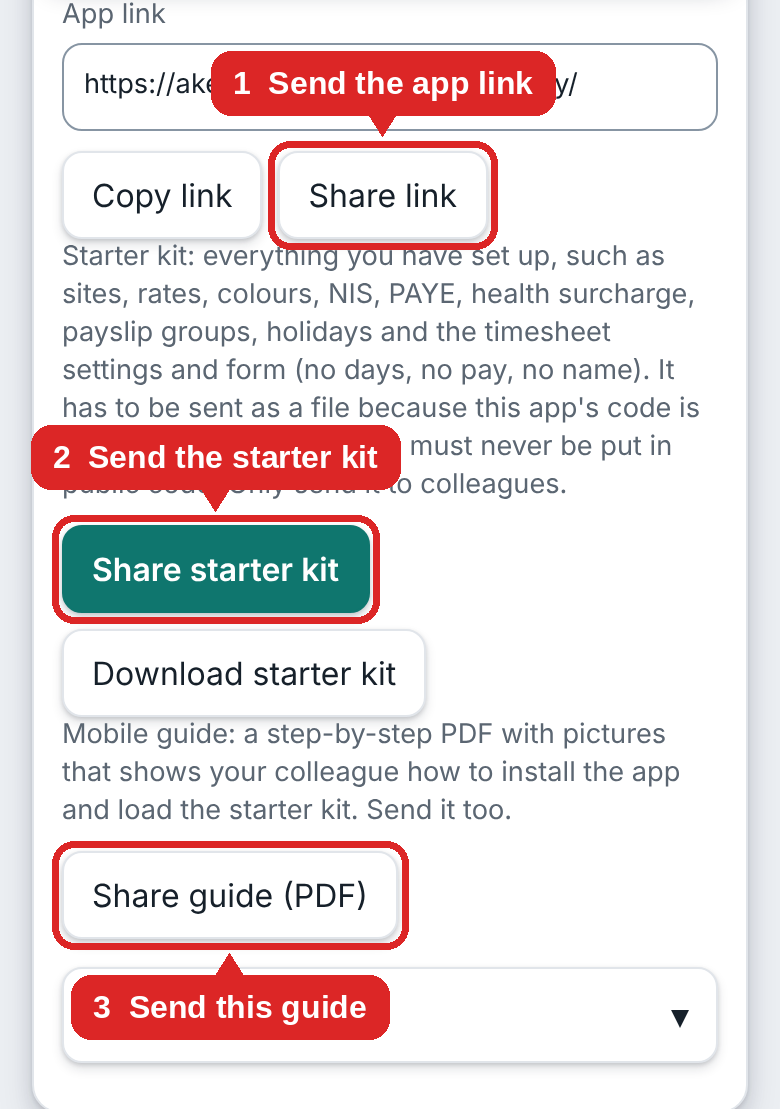
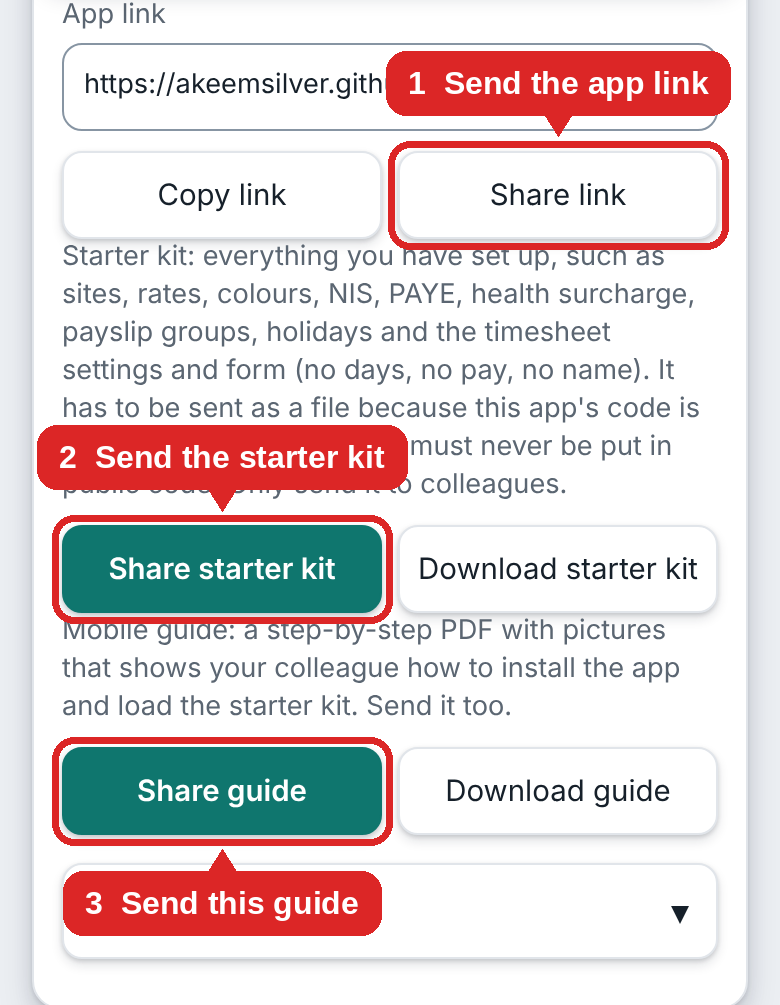
Send to payroll: Open email only opens; Share this app: equal-width button pairs and Download guide (#40)
* Holiday / turnaround days read HOL/TAR in the list and on Home

* Timesheet: tick the sites and roles that go on the timesheet (and other jobs), edit the Client column text, press Save

* Menus pull down from their handle and title bar only; time picker uses AM/PM, hour and minute wheels (always saved as 24-hour)

* Payroll email says Good day; timesheet jobs show roles under each site, a read-out sentence, and a client-medic-everywhere option

Claude-Session: https://claude.ai/code/session_015B217MJCLoYGM2HCZFLF5v

* Time picker: smaller, softer time readout

Claude-Session: https://claude.ai/code/session_015B217MJCLoYGM2HCZFLF5v

* Share menu: starter kit tries .txt first (Android refuses .json); Send to payroll builds the file first, then opens the share menu with the email text

Claude-Session: https://claude.ai/code/session_015B217MJCLoYGM2HCZFLF5v

* Per-site 'Job requires lunch check' Yes/No (settings and Add site); No hides lunch options and pays the full time

Claude-Session: https://claude.ai/code/session_015B217MJCLoYGM2HCZFLF5v

* Colour picker: smaller round swatches in three rows, 12 more colours (existing sites keep theirs)

Claude-Session: https://claude.ai/code/session_015B217MJCLoYGM2HCZFLF5v

* Send to payroll: Download and share in one tap (saves to Downloads, stays on screen, opens the share menu); button becomes Share if the phone needs a second tap

Claude-Session: https://claude.ai/code/session_015B217MJCLoYGM2HCZFLF5v
[…]

diff --git a/src/components/ExportSheet.tsx b/src/components/ExportSheet.tsx
@@ -107,7 +107,6 @@ export function ExportSheet({ month }: { month: string }) {
     setMessage(null);
     setPayrollFile(null);
     setPayrollError(null);
-    setPayrollTry(0);
     setSavedToFiles(false);
     setSavedName(null);
     setPayrollOpen(true);
@@ -120,34 +119,6 @@ export function ExportSheet({ month }: { month: string }) {
     }
   };
   const [payrollError, setPayrollError] = useState<string | null>(null);
-  // Android Chrome sometimes refuses a file type ("Permission denied"). Each tap tries the next way of labelling the same file.
-  const SHARE_TYPES = [XLSX_MIME, "application/octet-stream", "application/zip"];
-  const [payrollTry, setPayrollTry] = useState(0);
-  // Secondary: share the file with any app (WhatsApp, ...).
-  const shareToPayroll = async () => {
-    if (!payrollFile) return;
-    const { fileName, bytes } = payrollFile;
-    setPayrollError(null);
-    const type = SHARE_TYPES[payrollTry % SHARE_TYPES.length]!;
-    const file = new File([bytes as BlobPart], fileName, { type });
-    const nav = navigator as Navigator & { canShare?: (d: ShareData) => boolean };
-    if (nav.share && (!nav.canShare || nav.canShare({ files: [file] }))) {
-      try {
-        // Only the file and its name: adding the email text made Android refuse the share.
-        await nav.share({ files: [file], title: fileName });
-        setPayrollOpen(false); setPayrollTry(0);
-        setMessage({ text: "Time sheet shared.", ok: true });
-      } catch (e) {
-        // Closing the share menu is fine. Any other refusal is shown, and the next tap tries another file type.
-        if ((e as DOMException)?.name !== "AbortError") {
-          setPayrollError((e as Error)?.message || (e as DOMException)?.name || "Error");
-          setPayrollTry((t) => t + 1);
-        }
-      }
-      return;
-    }
-    setPayrollError("this phone cannot share files");
-  };
   // iPhone: a downloaded file opens in a viewer that hides the mail app, so there are two steps: the file goes to the share menu
   // (Save to Files), then the chosen email app opens with the address, subject and message filled in, and the file is attached from Files.
   const [savedToFiles, setSavedToFiles] = useState(false);
@@ -181,23 +152,12 @@ export function ExportSheet({ month }: { month: string }) {
     download(name, payrollFile.bytes, XLSX_MIME);
     setSavedName(name);
   };
-  // Step 2: open the email app with the address, subject and message filled in; the file is attached from Files / Downloads.
-  const doOpenEmail = (app: "mail" | "gmail" | "outlook") => {
-    if (isIos()) { window.location.href = app === "gmail" ? gmailLink(email) : app === "outlook" ? outlookLink(email) : mailtoLink(email); return; }
-    if (!payrollFile) return;
-    let name = savedName;
-    if (!name) { name = withTime(payrollFile.fileName); download(name, payrollFile.bytes, XLSX_MIME); setSavedName(name); }
-    const wait = savedName ? 0 : 700;
-    setPayrollOpen(false); setPayrollTry(0);
-    setMessage({ text: `${name} is in your Downloads. Attach it to the email that opens, then send.`, ok: true });
-    window.setTimeout(() => { window.location.href = mailtoLink(email); }, wait);
-  };
+  // Step 2 only opens the email app with the address, subject and message filled in. It never saves the file: that is step 1, and
+  // a copy may already be on the phone. (A link cannot attach a file, so the file is attached from Downloads / Files.) The box stays
+  // open, so coming back from the email app the file can still be saved.
   const openEmailApp = (app: "mail" | "gmail" | "outlook") => {
-    if (!isIos() && !savedName) {
-      askFirst({ title: "Save the time sheet and open email?", message: "The time sheet is saved to your Downloads, then your email app opens with the address, subject and message filled in. You attach the file.", confirmLabel: "Yes, save and open" }, () => doOpenEmail(app));
-      return;
-    }
-    doOpenEmail(app);
+    if (isIos()) { window.location.href = app === "gmail" ? gmailLink(email) : app === "outlook" ? outlookLink(email) : mailtoLink(email); return; }
+    window.location.href = mailtoLink(email);
   };
   // Other way: the file goes straight into an email app through the share menu, attached; the address is copied for pasting.
   const shareToMail = async () => {
@@ -299,7 +259,7 @@ export function ExportSheet({ month }: { month: string }) {
         )}
       </div>
       {askDialog}
-      {payrollOpen && <PayrollDialog email={email} fileName={timesheetFileName(name, month)} onCancel={() => setPayrollOpen(false)} onShare={() => askFirst({ title: "Share the time sheet?", message: "Your phone's share menu opens with the time sheet, so you can pick an app to send it with.", confirmLabel: "Yes, share" }, () => void shareToPayroll())} ios={isIos()} onSave={() => askFirst({ title: "Save the time sheet?", message: isIos() ? "The share menu opens: tap Save to Files to keep the time sheet." : "The time sheet is saved to your Downloads.", confirmLabel: "Yes, save" }, () => void saveTimesheet())} saved={isIos() ? savedToFiles : savedName !== null} savedName={savedName} onOpenEmail={openEmailApp} onShareMail={() => askFirst({ title: "Share the time sheet to an email app?", message: "The share menu opens with the time sheet attached. The payroll address is copied for you to paste.", confirmLabel: "Yes, share" }, () => void shareToMail())} ready={!!payrollFile} error={payrollError} />}
+      {payrollOpen && <PayrollDialog email={email} fileName={timesheetFileName(name, month)} onCancel={() => setPayrollOpen(false)} ios={isIos()} onSave={() => askFirst({ title: "Save the time sheet?", message: isIos() ? "The share menu opens: tap Save to Files to keep the time sheet." : "The time sheet is saved to your Downloads.", confirmLabel: "Yes, save" }, () => void saveTimesheet())} saved={isIos() ? savedToFiles : savedName !== null} savedName={savedName} onOpenEmail={openEmailApp} onShareMail={() => void shareToMail()} ready={!!payrollFile} error={payrollError} />}
     </BottomSheet>
   );
 }

diff --git a/src/screens/SettingsHub.tsx b/src/screens/SettingsHub.tsx
@@ -38,6 +38,7 @@ export function SettingsHub() {
   const [askDownload, setAskDownload] = useState(false);
   const [askShare, setAskShare] = useState(false);
   const [askGuide, setAskGuide] = useState(false);
+  const [askGuideDownload, setAskGuideDownload] = useState(false);
   // The guide is only downloaded when someone says yes to sharing it (never ahead of time).
   const [guideMessage, setGuideMessage] = useState<string | null>(null);
   const shareGuidePdf = async () => {
@@ -49,8 +50,18 @@ export function SettingsHub() {
     } catch (e) {
       const name = (e as DOMException)?.name;
       if (name === "AbortError") setGuideMessage(null);
-      else if (name === "NotAllowedError") setGuideMessage("The guide is ready. Tap Share guide (PDF) again to send it.");
+      else if (name === "NotAllowedError") setGuideMessage("The guide is ready. Tap Share guide again to send it.");
       else setGuideMessage("The guide could not be loaded. It needs a signal; try again in a moment.");
+    }
+  };
+  // Saved straight to Downloads, after a yes. The guide is fetched only now, never ahead of time.
+  const downloadGuidePdf = async () => {
+    try {
+      setGuideMessage("Getting the guide…");
+      download(withTime(GUIDE_FILE), await loadGuide(), "application/pdf");
+      setGuideMessage("Guide saved to your Downloads.");
+    } catch {
+      setGuideMessage("The guide could not be loaded. It needs a signal; try again in a moment.");
     }
   };
   const [kitMessage, setKitMessage] = useState<string | null>(null);
@@ -126,19 +137,20 @@ export function SettingsHub() {
         <label>App link
           <input readOnly aria-label="App link" value={link} onFocus={(e) => e.currentTarget.select()} />
         </label>
-        <div className="row">
+        <div className="row pair">
           <button onClick={copyLink}>{copied ? "Copied ✓" : "Copy link"}</button>
           <button onClick={() => void shareLink()}>Share link</button>
         </div>
         <p className="muted small">Starter kit: everything you have set up, such as sites, rates, colours, NIS, PAYE, health surcharge, payslip groups, holidays and the timesheet settings and form (no days, no pay, no name). It has to be sent as a file because this app's code is public, and company rates must never be put in public code. Only send it to colleagues.</p>
-        <div className="row">
+        <div className="row pair">
           <button className="primary" disabled={sitesCount === 0} onClick={() => setAskShare(true)}>Share starter kit</button>
           <button disabled={sitesCount === 0} onClick={() => setAskDownload(true)}>Download starter kit</button>
         </div>
         {kitMessage && <p className="notice" role="status">{kitMessage}</p>}
         <p className="muted small">Mobile guide: a step-by-step PDF with pictures that shows your colleague how to install the app and load the starter kit. Send it too.</p>
-        <div className="row">
-          <button onClick={() => setAskGuide(true)}>Share guide (PDF)</button>
+        <div className="row pair">
+          <button className="primary" onClick={() => setAskGuide(true)}>Share guide</button>
+          <button onClick={() => setAskGuideDownload(true)}>Download guide</button>
         </div>
         {guideMessage && <p className="notice" role="status">{guideMessage}</p>}
         {sitesCount === 0 && <p className="muted small">Add your sites first, then the starter kit is ready to share.</p>}
@@ -282,6 +294,15 @@ export function SettingsHub() {
           confirmLabel="Yes, share" cancelLabel="Cancel" safe
           onCancel={() => setAskGuide(false)}
           onConfirm={() => { setAskGuide(false); void shareGuidePdf(); }}
+        />
+      )}
+      {askGuideDownload && (
+        <ConfirmDialog
+          title="Download the guide?"
+          message="The guide (PDF, about 2.7 MB) is saved to your Downloads."
+          confirmLabel="Yes, download" cancelLabel="Cancel" safe
+          onCancel={() => setAskGuideDownload(false)}
+          onConfirm={() => { setAskGuideDownload(false); void downloadGuidePdf(); }}
         />
       )}
       {askDownload && (

diff --git a/src/components/PayrollDialog.tsx b/src/components/PayrollDialog.tsx
@@ -8,8 +8,8 @@ import { AppleMailIcon, GmailIcon, OutlookIcon } from "./MailIcons";
  * and message filled in, then attach the file. iPhone saves through the share menu (Save to Files) and has Mail, Gmail and Outlook
  * buttons; Android saves to Downloads and opens its own chooser (Gmail, Outlook, ...).
  */
-export function PayrollDialog({ email, fileName, onCancel, onShare, ready = true, error = null, ios = false, onSave, saved = false, savedName = null, onOpenEmail, onShareMail }: {
-  email: PayrollEmail; fileName: string; onCancel: () => void; onShare?: () => void; ready?: boolean; error?: string | null;
+export function PayrollDialog({ email, fileName, onCancel, ready = true, error = null, ios = false, onSave, saved = false, savedName = null, onOpenEmail, onShareMail }: {
+  email: PayrollEmail; fileName: string; onCancel: () => void; ready?: boolean; error?: string | null;
   ios?: boolean; onSave?: () => void; saved?: boolean; /** Android: the name saved in Downloads. */ savedName?: string | null;
   onOpenEmail?: (app: "mail" | "gmail" | "outlook") => void; onShareMail?: () => void;
 }) {
@@ -33,7 +33,7 @@ export function PayrollDialog({ email, fileName, onCancel, onShare, ready = true
             <button className={saved ? "" : "primary"} disabled={!ready || (!ios && saved)} onClick={onSave}>
               {!ready ? "Preparing…" : saved ? (ios ? "Saved ✓ Save again" : "Saved ✓") : "Save time sheet"}
             </button>
-            <span className="muted small">{ios ? <>In the menu that opens, tap <strong>Save to Files</strong>. If you pick an email app there instead, the file, subject and message go with it, and the address is copied for you to paste.</> : saved && savedName ? <>Saved in your Downloads as <strong>{savedName}</strong>.</> : "It is saved to your Downloads."}</span>
+            <span className="muted small">{ios ? <>In the menu that opens, tap <strong>Save to Files</strong>. If you pick an email app there instead, the file, subject and message go with it, and the address is copied for you to paste.</> : saved && savedName ? <>Saved in your Downloads as <strong>{savedName}</strong>. To send it with another app, such as WhatsApp, attach it from Downloads.</> : "It is saved to your Downloads. To send it with another app, such as WhatsApp, save it here, then attach it from Downloads."}</span>
           </div>
           <div>
             <strong>2. Open your email app</strong>
@@ -49,9 +49,7 @@ export function PayrollDialog({ email, fileName, onCancel, onShare, ready = true
             <span className="muted small">{ios ? "It opens with the address, subject and message filled in. Tap the paperclip and pick the time sheet from Files, then send." : "Pick Gmail or Outlook. It opens with the address, subject and message filled in. Tap the paperclip and attach the time sheet from Downloads, then send."}</span>
           </div>
         </div>
-        {ios
-          ? <button className="link" onClick={onShareMail} disabled={!ready}>Or share the file straight to an email app (you paste the address)</button>
-          : onShare && <button className="link" onClick={onShare} disabled={!ready}>Or share the file with another app instead</button>}
+        {ios && <button className="link" onClick={onShareMail} disabled={!ready}>Or share the file straight to an email app (you paste the address)</button>}
         <div className="row one">
           <button onClick={onCancel}>Close</button>
         </div>

diff --git a/src/styles.css b/src/styles.css
@@ -1068,3 +1068,8 @@ button.close-site { justify-content: center; text-align: center; color: var(--ac
 .source-choices button strong { font-size: 1.02rem; }
 .source-choices button span { font-size: 0.84rem; font-weight: 400; opacity: 0.9; }
 .source-choices ol { margin: 0; padding-left: 1.2rem; display: grid; gap: 4px; }
+
+/* Share this app: each pair of buttons splits the width equally, so Copy / Share link, Share / Download starter kit and Share / Download guide line up. */
+.share-app .row.pair { display: grid; grid-template-columns: 1fr 1fr; gap: 8px; }
+.share-app .row.pair button { width: 100%; }
+.share-app .row.pair button { font-size: 0.92rem; padding-inline: 8px; }

diff --git a/guide/build_guide.py b/guide/build_guide.py
@@ -175,7 +175,7 @@ s.append(steps([
 s.append(Paragraph("D. See the month and send the time sheet", h2))
 s.append(steps([
  ("<b>Home</b> shows the month so far: gross, net, PAYE, days and paid hours, with each payslip group underneath (days, paid hours and its tax: PAYE, NIS and the health surcharge). This is shown for every month with pay, even with only one group. Every job that goes on the time sheet (the sites ticked for it, and other jobs) is counted on its own <b>Time sheet</b> line: its days, the hours of jobs paid by the hour (such as Client medic), and a small note with the pay counted there. <b>Fixed rate and other jobs add days and pay but no hours</b>, and the note says so. The pay and tax still belong to the group they came from, so PAYE, NIS and the surcharge are worked out from everything in that group. A day is counted once, so the lines add up to the Days and Paid hours at the top. Swipe the calendar left or right to change month. The <b>Month</b> tab shows the same month with the calendar (the month name and arrows stay at the top as you scroll, and changing the month keeps your place; each time you come back to the tab it opens on the current month) and, under its summary, two colour tables like the monthly sheet: <b>Gross and days</b> (for each site the gross, the days, and how many were weekdays and weekend or holiday days) and <b>Hours</b> (the hours worked and the paid hours, with overtime counted). A fixed day rate shows no hours. <b>Year</b> and <b>Charts</b> show the whole year. On the Year tab, <b>More details</b> opens a table for each payslip; while you scroll down inside an opened table its header stays under the title bar (tap it to close the table).", None),
- ("<b>Every button that saves or shares a file first asks you in a pop-up</b> (for example \"Download the timesheet?\"), and nothing is saved until you tap <b>Yes</b>. <b>Time sheet:</b> tap the download icon at the top of any screen and choose <b>Send to payroll</b>. A box shows the email that will be sent (payroll address, subject and message) and takes two steps. <b>1. Save time sheet:</b> on Android it goes straight to your Downloads (the time is added to the file name, so it never clashes with an earlier one); on iPhone a menu opens and you tap <b>Save to Files</b> (if you pick an email app in that menu instead, the file arrives attached with the subject and message, and the app has copied the address for you to paste). <b>2. Open your email app:</b> on Android tap <b>Open email</b> and pick Gmail or Outlook; on iPhone tap the <b>Open email</b>, <b>Open Gmail</b> or <b>Open Outlook</b> icon. The email opens with the payroll address, subject and message already filled in: tap the paperclip, pick the time sheet from Downloads (iPhone: Files) and send. A link under the steps shares the file with another app instead (WhatsApp, or on iPhone straight into an email app, and then you paste the address, which the app copies for you).", Bs("b-download"), 50),
+ ("<b>Every button that saves or shares a file first asks you in a pop-up</b> (for example \"Download the timesheet?\"), and nothing is saved until you tap <b>Yes</b>. <b>Time sheet:</b> tap the download icon at the top of any screen and choose <b>Send to payroll</b>. A box shows the email that will be sent (payroll address, subject and message) and takes two steps. <b>1. Save time sheet:</b> on Android it goes straight to your Downloads (the time is added to the file name, so it never clashes with an earlier one); on iPhone a menu opens and you tap <b>Save to Files</b> (if you pick an email app in that menu instead, the file arrives attached with the subject and message, and the app has copied the address for you to paste). <b>2. Open your email app</b> (it only opens the email, it never saves the file, so a copy you already have is not saved again): on Android tap <b>Open email</b> and pick Gmail or Outlook; on iPhone tap the <b>Open email</b>, <b>Open Gmail</b> or <b>Open Outlook</b> icon. The email opens with the payroll address, subject and message already filled in: tap the paperclip, pick the time sheet from Downloads (iPhone: Files) and send. To send the time sheet with another app, such as WhatsApp, save it with step 1 and then attach it from Downloads (iPhone: Files). On iPhone, a link under the steps also shares the file straight into an email app, and then you paste the address, which the app copies for you.", Bs("b-download"), 50),
  ("<b>Payslips:</b> in the same screen, switch to <b>Payslip</b>. The eye icon lets you look at them first.", None),
  ("<b>This guide, inside the app:</b> tap the eye icon at the top of any screen, then <b>Guide (PDF)</b>. The first time, a pop-up asks <b>Open the guide?</b> before it downloads (about 2.7 MB); tap <b>Yes, open it</b>. After that it is kept on your phone and opens straight away, and it is never downloaded on its own.", A("g-eye"), 50),
  ("The guide opens like your phone's own PDF reader. Pinch with two fingers (or tap + and −) to zoom, and scroll to read. <b>Download guide (PDF)</b> at the bottom saves it to your Downloads, and <b>Share</b> sends it to a colleague.", A("g-viewer"), 50)]))
@@ -231,7 +231,7 @@ s.append(steps([
  ("<b>Send the link.</b> Tap <b>Share link</b>, pick <b>WhatsApp</b> and the person.", None),
  ("<b>Send the starter kit.</b> Tap <b>Share starter kit</b>, then <b>Yes, download and share</b>. The kit is sent as a <b>PDF</b> (HHSL-starter-kit-rates.pdf), because WhatsApp lets your colleague download a PDF but only shows a text file as text. The time is added to the saved file's name so it never clashes with an earlier copy.", Bs("b-share-ask"), 50),
  ("The share menu opens. Pick <b>WhatsApp</b> (or Gmail) and the same person, and send the file.", Bs("b-share-after"), 50),
- ("<b>Send this guide.</b> Tap <b>Share guide (PDF)</b> and pick the same person. The guide is built into the app, so it is always the latest one. It needs a signal to load.", None)]))
+ ("<b>Send this guide.</b> Tap <b>Share guide</b>, then <b>Yes, share</b>, and pick the same person. (<b>Download guide</b>, next to it, saves the guide to your Downloads instead.) The guide is built into the app, so it is always the latest one. It needs a signal the first time, because the app only downloads the guide after you say yes.", None)]))
 s.append(Paragraph(f"This guide is also here, if you ever need to download it again: {lk(LINK + GUIDE_FILE, GUIDE_FILE)}", small))
 s.append(Paragraph(f"Back to the top: {go('p1', 'Part 1')} · {go('p2', 'Part 2')} · {go('p3', 'Part 3')} · {go('p4', 'Part 4')} · {go('p5', 'Part 5')} · {go('p6', 'Part 6')} · {go('p7', 'Part 7')}", small))
 doc.build(s)
